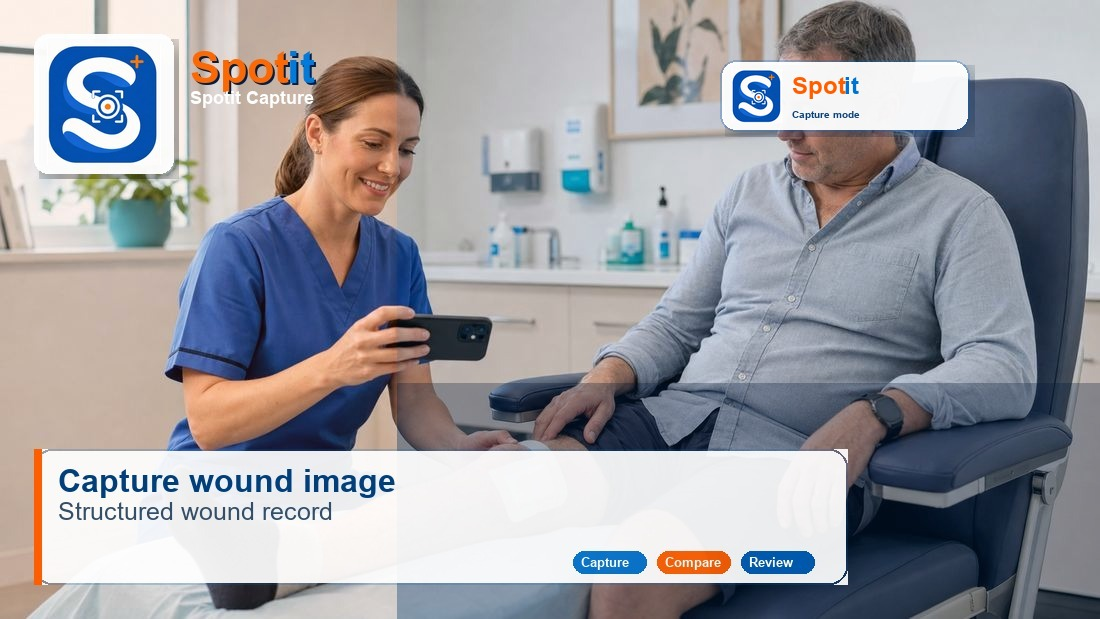
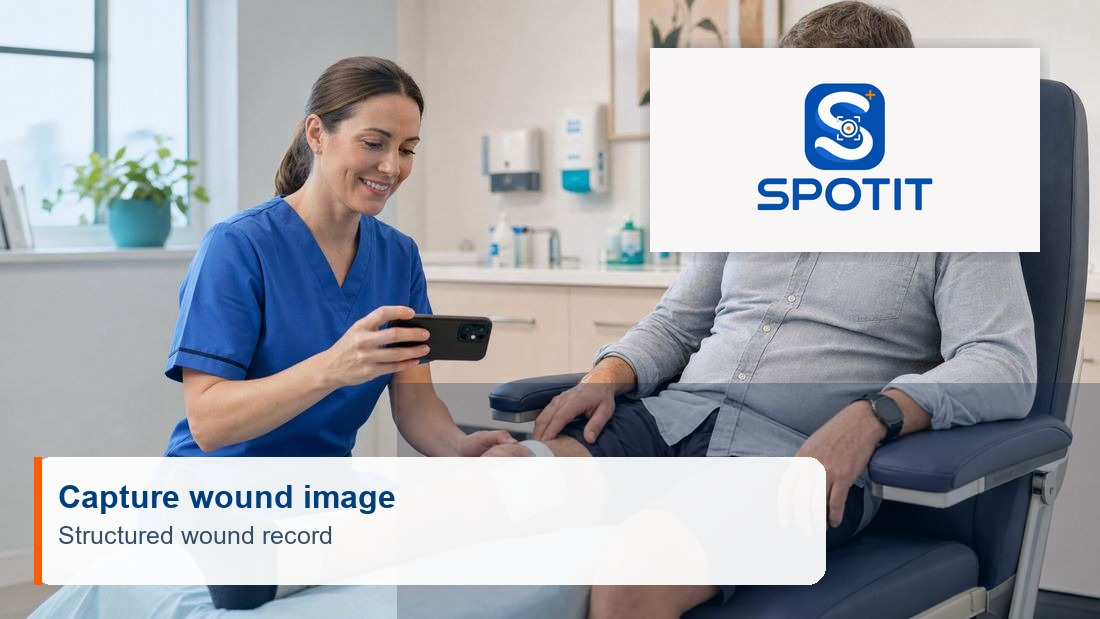
Use exact Spotit branding in demo

diff --git a/marketing/marketing.css b/marketing/marketing.css
@@ -2780,7 +2780,7 @@ h1 {
 }
 
 .lux-spotit-logo {
-  width: min(156px, 100%);
+  width: min(420px, 100%);
   justify-self: start;
   border-radius: 8px;
   padding: 12px;
@@ -3027,8 +3027,8 @@ h1 {
 }
 
 .lux-demo-brand {
-  width: 42px;
-  height: 42px;
+  width: 110px;
+  height: 58px;
   margin-left: auto;
   border: 1px solid rgba(0, 94, 184, 0.14);
   border-radius: 8px;
@@ -3872,7 +3872,7 @@ h1 {
   }
 
   .lux-spotit-logo {
-    width: min(132px, 100%);
+    width: min(310px, 100%);
     padding: 10px;
   }
 
@@ -3889,8 +3889,8 @@ h1 {
   }
 
   .lux-demo-brand {
-    width: 36px;
-    height: 36px;
+    width: 82px;
+    height: 44px;
   }
 
   .lux-spotit-actions a {
